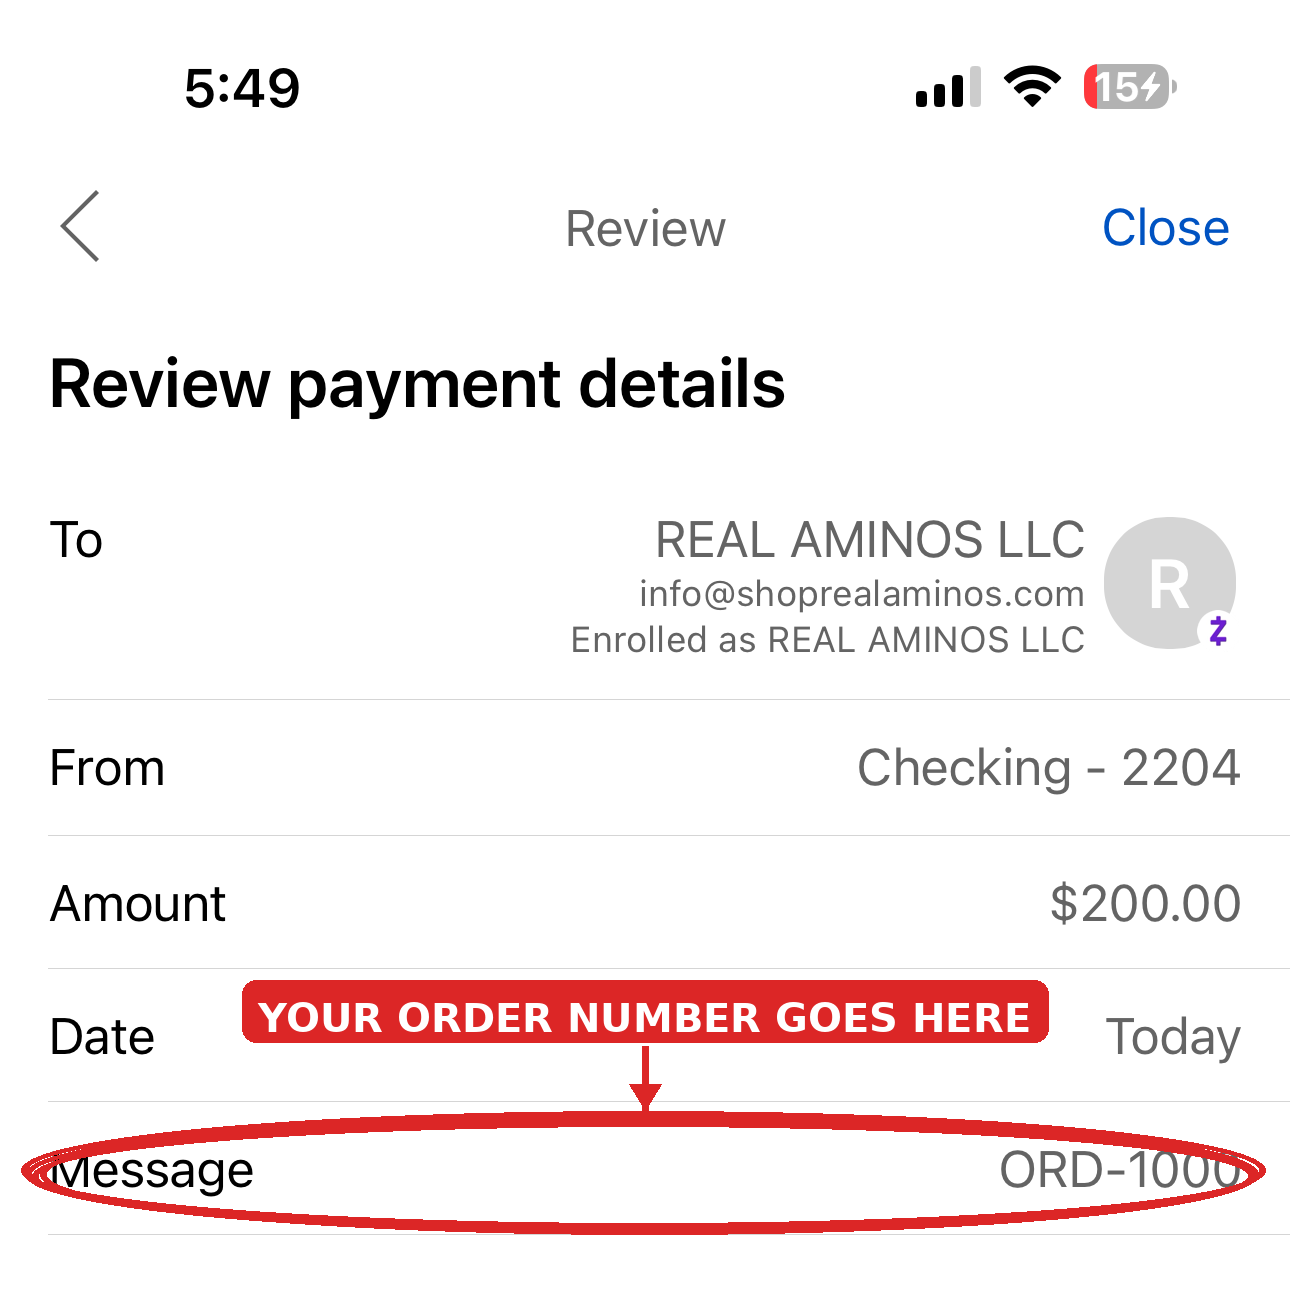
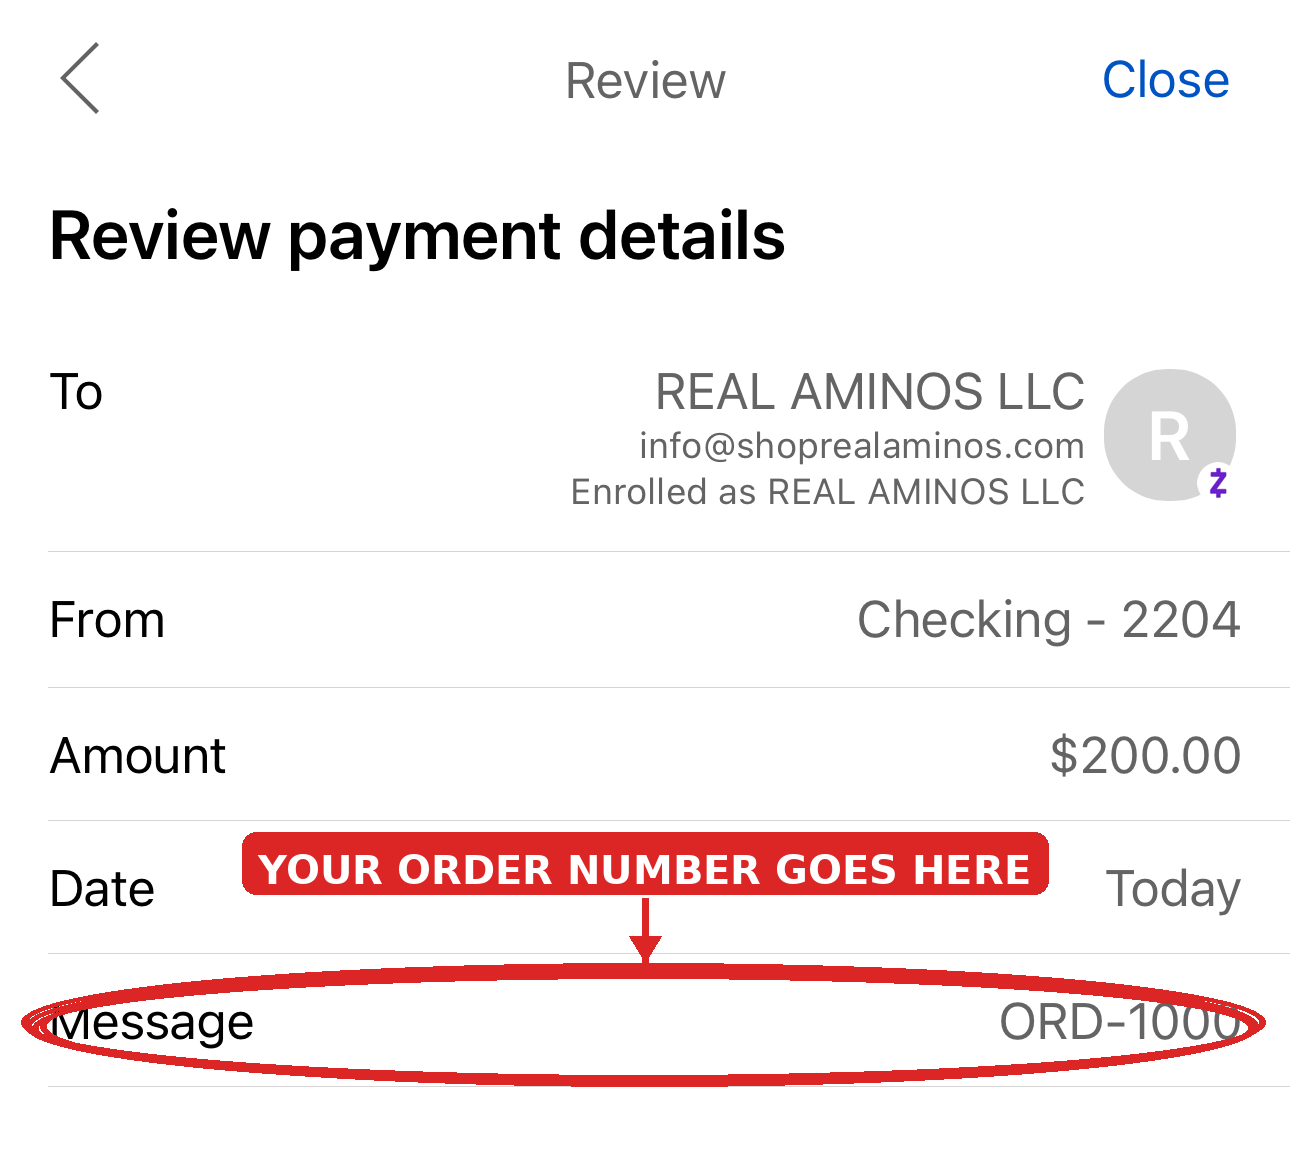
Review payment details

diff --git a/src/app/globals.css b/src/app/globals.css
@@ -132,7 +132,11 @@ nav.primary a:hover{ color:var(--orange-dark); border-bottom-color:var(--orange)
 /* ---------- hero ---------- */
 .hero{ background:radial-gradient(circle at 15% 20%, rgba(249,115,22,.14), transparent 45%), linear-gradient(180deg,#0b0f16 0%, #12161f 100%); color:white; padding:72px 24px 90px; position:relative; overflow:hidden; }
 .hero::after{ content:""; position:absolute; inset:0; background-image:radial-gradient(circle, rgba(255,255,255,0.045) 1px, transparent 1.4px); background-size:26px 26px; opacity:.6; }
-.hero-inner{ max-width:1180px; margin:0 auto; position:relative; z-index:2; display:grid; grid-template-columns:1.1fr .9fr; gap:48px; align-items:center; }
+/* Single-column now that the sample-COA side card is gone — was a 2-col
+   grid (1.1fr .9fr) sized to sit alongside that card; a plain max-width
+   block keeps the remaining text from stretching edge-to-edge on wide
+   screens instead of leaving an empty second grid column. */
+.hero-inner{ max-width:760px; margin:0 auto; position:relative; z-index:2; }
 .eyebrow{ display:inline-flex; align-items:center; gap:8px; background:rgba(249,115,22,.15); border:1px solid rgba(249,115,22,.4); color:#fdba74; font-size:12.5px; font-weight:700; padding:6px 12px; border-radius:999px; margin-bottom:18px; letter-spacing:.03em; }
 .hero h1{ font-size:42px; line-height:1.1; margin:0 0 16px; letter-spacing:-0.02em; }
 .hero h1 em{ font-style:normal; color:var(--orange); }
@@ -142,11 +146,6 @@ nav.primary a:hover{ color:var(--orange-dark); border-bottom-color:var(--orange)
 .stat{ min-width:110px; }
 .stat b{ display:block; font-size:22px; color:white; }
 .stat span{ font-size:12px; color:#94a3b8; }
-.hero-card{ background:rgba(255,255,255,.04); border:1px solid rgba(255,255,255,.12); border-radius:16px; padding:22px; backdrop-filter:blur(6px); }
-.hero-card h3{ margin:0 0 4px; font-size:14px; color:#fdba74; letter-spacing:.03em; text-transform:uppercase; }
-.hero-card .coa-row{ display:flex; justify-content:space-between; font-size:13.5px; color:#e2e8f0; padding:9px 0; border-bottom:1px dashed rgba(255,255,255,.12); }
-.hero-card .coa-row:last-child{ border-bottom:none; }
-.hero-card .coa-row b{ color:white; }
 
 /* ---------- sections ---------- */
 main.site-main{ max-width:1180px; margin:0 auto; padding:0 24px; }
@@ -451,7 +450,6 @@ table.admin-table tr:last-child td{ border-bottom:none; }
   html:not(.force-desktop) nav.primary{ display:none; }
   html:not(.force-desktop) .nav-actions-desktop{ display:none; }
   html:not(.force-desktop) .menu-toggle{ display:flex; }
-  html:not(.force-desktop) .hero-inner{ grid-template-columns:1fr; }
   html:not(.force-desktop) .trust-grid,
   html:not(.force-desktop) .product-grid{ grid-template-columns:repeat(2,1fr); }
   html:not(.force-desktop) .shop-layout,
@@ -494,7 +492,6 @@ table.admin-table tr:last-child td{ border-bottom:none; }
 html.force-mobile nav.primary{ display:none; }
 html.force-mobile .nav-actions-desktop{ display:none; }
 html.force-mobile .menu-toggle{ display:flex; }
-html.force-mobile .hero-inner{ grid-template-columns:1fr; }
 html.force-mobile .trust-grid,
 html.force-mobile .product-grid{ grid-template-columns:1fr; }
 html.force-mobile .shop-layout,

diff --git a/src/app/page.tsx b/src/app/page.tsx
@@ -2,6 +2,7 @@ import Link from "next/link";
 import { createClient } from "@/lib/supabase/server";
 import type { ProductWithVariants } from "@/types/database";
 import ProductCard from "@/components/ProductCard";
+import LaunchCountdown from "@/components/LaunchCountdown";
 
 export default async function Home() {
   const supabase = createClient();
@@ -15,6 +16,7 @@ export default async function Home() {
 
   return (
     <>
+      <LaunchCountdown />
       <div className="hero">
         <div className="hero-inner">
           <div>
@@ -50,33 +52,6 @@ export default async function Home() {
                 <b>3rd-Party</b>
                 <span>Independent lab testing</span>
               </div>
-            </div>
-          </div>
-          <div className="hero-card">
-            <h3>Sample Certificate of Analysis</h3>
-            <div className="coa-row">
-              <span>Compound</span>
-              <b>BPC-157</b>
-            </div>
-            <div className="coa-row">
-              <span>Lot No.</span>
-              <b>RA-24081</b>
-            </div>
-            <div className="coa-row">
-              <span>Purity (HPLC)</span>
-              <b>99.4%</b>
-            </div>
-            <div className="coa-row">
-              <span>Identity (MS)</span>
-              <b>Confirmed</b>
-            </div>
-            <div className="coa-row">
-              <span>Endotoxin</span>
-              <b>Pass</b>
-            </div>
-            <div className="coa-row">
-              <span>Status</span>
-              <b style={{ color: "#4ade80" }}>Released</b>
             </div>
           </div>
         </div>
